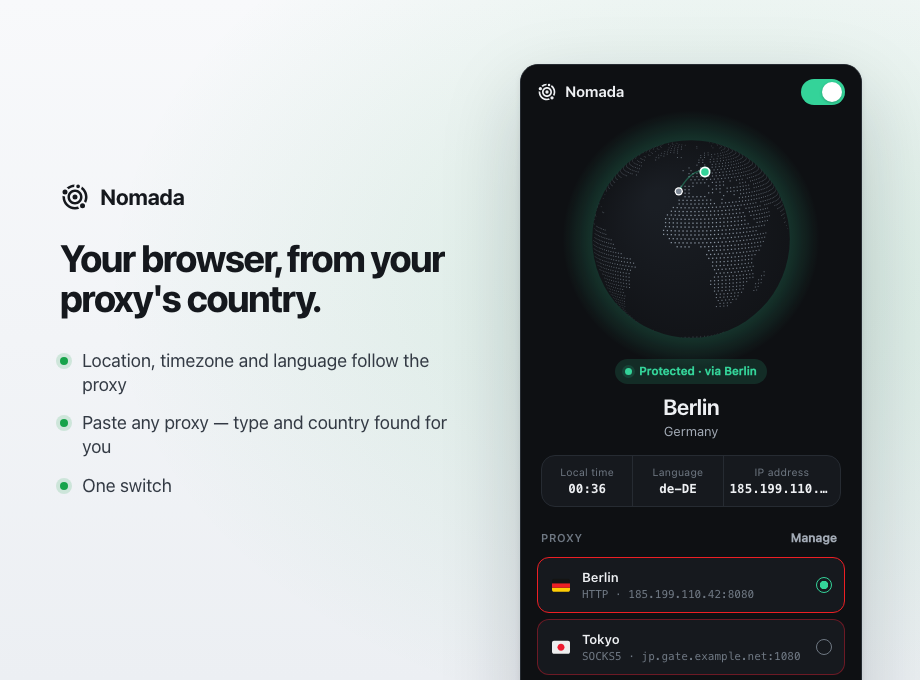
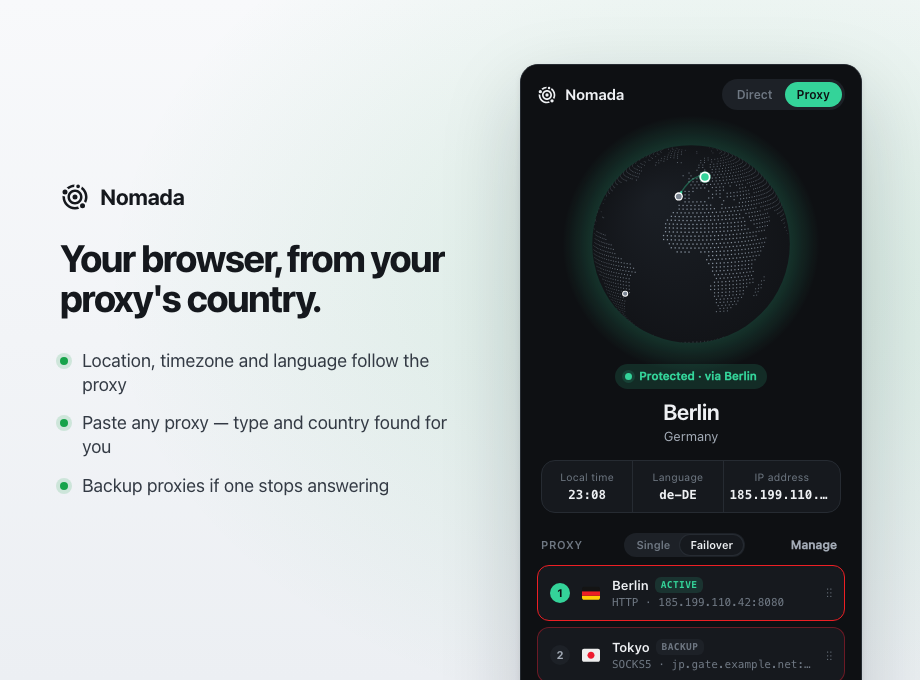
chore: release 1.4.0
- Bump version to 1.4.0 (Chrome and Firefox; no permission changes)
- Release notes: failover to backup proxies, Direct / Proxy switch
- New popup store screenshot and promo tiles showing the new switch

diff --git a/STORE_LISTING.md b/STORE_LISTING.md
@@ -118,7 +118,7 @@ Nomada routes the browser through a user-configured proxy and makes the browser'
 ---
 
 ## Screenshot captions
-1. "One switch — your whole browser moves to your proxy's location."
+1. "One switch moves your browser to your proxy's location — with backups if it stops answering."
 2. "Every proxy shows the country it exits in."
 3. "Paste any proxy — Nomada finds its type and country."
 4. "No proxy yet? Pick a working public one by country."
@@ -133,11 +133,10 @@ Nomada routes the browser through a user-configured proxy and makes the browser'
 - Proxies show the flag of their exit country instead of a colour
 - No new permissions
 
-## Release notes — next version
+## Release notes — 1.4.0
 - Failover: backup proxies in your order; location, timezone and language follow the switch; if none answers, requests are blocked rather than exposed
 - Direct / Proxy switch in the popup
 - No new permissions
-- Before release: retake the store screenshots (the popup's switch has changed)
 
 ## Release notes — 1.3.0
 - Public proxy gallery on the settings page: working public proxies (checked every 6 hours), by country and type, added or used with one click
